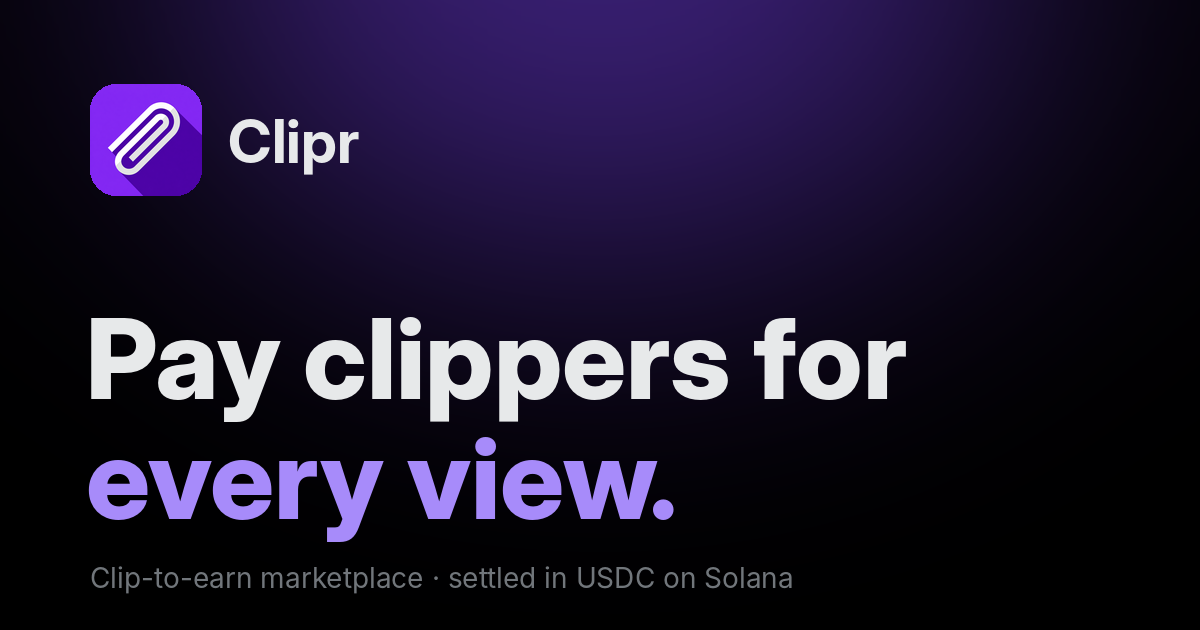
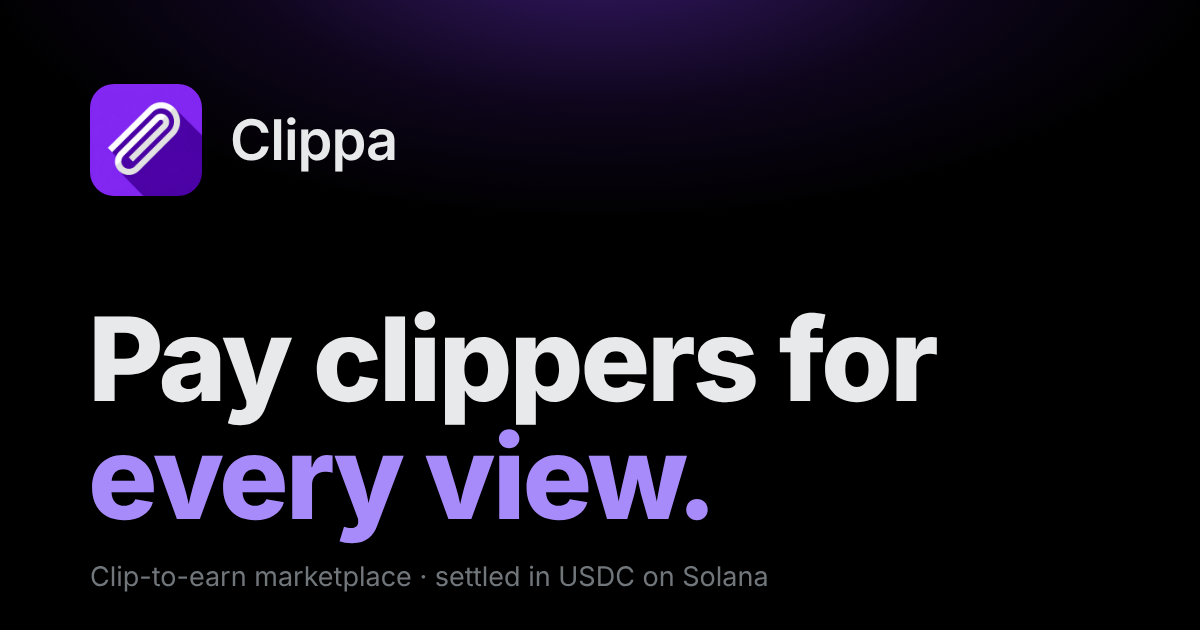
Rename to Clippa and link the @ClippaRun X account (#12)
* Embed a MrBeast TikTok in the scroll-story clip card

Uses TikTok's official embed player (muted, looping, chrome hidden) at
9:16, with the simulated views and earnings overlaid. The video id lives
in one constant so it is easy to swap.

Claude-Session: https://claude.ai/code/session_01Pjyex1ieHt6PobtfqqmfEH

* Add a Clipr campaign per platform and a $5,000 live budget

The landing ticker and seed script now feature four campaigns asking
clippers to post about Clipr (TikTok, YouTube, Instagram, X), $1,250
each. Live budgets falls back to their $5,000 total until real stats exist.

Claude-Session: https://claude.ai/code/session_01Pjyex1ieHt6PobtfqqmfEH

* Swap the MrBeast clip card into the hero and the simulated board into the scroll story

The clip card now loops through posted, growing, verified and paid on a
12s timer, since the hero has no scroll to drive it.

Claude-Session: https://claude.ai/code/session_01Pjyex1ieHt6PobtfqqmfEH

* Show each scroll-story step being done in a real app screen

Post the clip: TikTok's post composer, caption typed, posting progress.
Watch it grow: TikTok post analytics with views and the chart climbing.
Get verified: Clipr's submit screen ticking off each check, then approved.
Get paid: a wallet receiving the USDC payout from Clipr escrow.
The simulated board moves under the stats.

Claude-Session: https://claude.ai/code/session_01Pjyex1ieHt6PobtfqqmfEH

* Remove the progress ring behind the hero TikTok clip card
[…]

diff --git a/app/docs/page.tsx b/app/docs/page.tsx
@@ -82,7 +82,7 @@ export default function DocsPage() {
     <div className="mx-auto min-h-[80vh] max-w-7xl px-5 py-14 sm:px-8">
       <Reveal>
         <h1 className="font-display text-4xl font-bold tracking-tight text-ink-50 sm:text-5xl">
-          How Clipr works
+          How Clippa works
         </h1>
         <p className="mt-4 max-w-xl text-base leading-relaxed text-ink-300">
           Everything under the hood — the money flow, the payout gates, who can do what, where the
@@ -120,7 +120,7 @@ export default function DocsPage() {
               A settlement layer for clips
             </h2>
             <P>
-              Clipr is a marketplace where creators buy distribution and clippers get paid for it.
+              Clippa is a marketplace where creators buy distribution and clippers get paid for it.
               A creator posts a campaign with a rate per 1,000 views and funds its escrow wallet
               with USDC. Clippers cut the source content, post it to TikTok, YouTube, Instagram
               or X, and submit their links. Approved clips earn the posted rate on verified views,
@@ -144,7 +144,7 @@ export default function DocsPage() {
               posts and files the link, which sits pending with no money moving;{' '}
               <Mono>VIEWS_VERIFIED</Mono> — the submission is reviewed against the campaign and a
               view count is attached, automatically from the YouTube Data API for YouTube links
-              and at review time for other platforms; and <Mono>PAYOUT_CLEARED</Mono> — Clipr
+              and at review time for other platforms; and <Mono>PAYOUT_CLEARED</Mono> — Clippa
               sends USDC from the campaign wallet to the clipper&apos;s wallet, with the transaction
               signature as the receipt.
             </P>
@@ -156,7 +156,7 @@ export default function DocsPage() {
               One escrow wallet per campaign
             </h2>
             <P>
-              Every campaign gets its own wallet, held by Clipr. Money for one campaign never
+              Every campaign gets its own wallet, held by Clippa. Money for one campaign never
               mixes with another&apos;s: the creator funds that wallet, payouts and refunds leave
               from it, and its on-chain balance can be checked by anyone.
             </P>
@@ -238,8 +238,8 @@ export default function DocsPage() {
               Where the trust actually sits
             </h2>
             <P>
-              Clipr is custodial in this release, and the docs would be dishonest not to spell out
-              what that means. Each campaign&apos;s budget sits in its own wallet whose keys Clipr
+              Clippa is custodial in this release, and the docs would be dishonest not to spell out
+              what that means. Each campaign&apos;s budget sits in its own wallet whose keys Clippa
               holds. What it gives you: per-campaign wallets you can audit on chain, an
               append-only ledger, and a transaction signature for every settlement.
               What it does not give you: trustlessness.
@@ -262,7 +262,7 @@ export default function DocsPage() {
               10% in — 60% back into the chart
             </h2>
             <P>
-              Clipr charges exactly one fee: <span className="text-ink-50">10% of each
+              Clippa charges exactly one fee: <span className="text-ink-50">10% of each
               payout</span>, taken at the moment of settlement. Clippers keep 90% of everything
               they earn. There are no listing fees, no subscriptions, and no cut of creator
               deposits — an unspent budget withdraws in full.
@@ -277,7 +277,7 @@ export default function DocsPage() {
               <SplitBar
                 segments={[
                   { label: '$CLIPR buybacks · 60%', pct: 60, bar: 'bg-ink-50', text: 'text-ink-50' },
-                  { label: 'Clipr campaigns · 30%', pct: 30, bar: 'bg-ink-400', text: 'text-ink-300' },
+                  { label: 'Clippa campaigns · 30%', pct: 30, bar: 'bg-ink-400', text: 'text-ink-300' },
                   { label: 'Operations · 10%', pct: 10, bar: 'bg-ink-50', text: 'text-ink-200' },
                 ]}
               />
@@ -289,7 +289,7 @@ export default function DocsPage() {
               </span>{' '}
               — straight back into the chart.{' '}
               <span className="text-ink-50">
-                30% funds Clipr-run campaigns on this marketplace
+                30% funds Clippa-run campaigns on this marketplace
               </span>{' '}
               — protocol-funded campaigns that pay clippers directly, making the protocol
               its own biggest creator. The remaining 10% covers operations. Put together, for

diff --git a/app/page.tsx b/app/page.tsx
@@ -22,12 +22,12 @@ type Activity = { kind: 'payout' | 'deposit' | 'campaign' | 'clip'; amount: numb
 
 /* Shown in the ticker only until real campaigns exist. */
 const EXAMPLES: Pick<Campaign, 'id' | 'title' | 'platforms' | 'ratePerThousand' | 'budgetCents' | 'spentCents'>[] = [
-  { id: 'ex1', title: 'Clipr — TikTok launch clips', platforms: ['tiktok'], ratePerThousand: 100, budgetCents: 125000, spentCents: 0 },
-  { id: 'ex2', title: 'Clipr — YouTube Shorts explainers', platforms: ['youtube'], ratePerThousand: 150, budgetCents: 125000, spentCents: 0 },
-  { id: 'ex3', title: 'Clipr — Instagram Reels', platforms: ['instagram'], ratePerThousand: 80, budgetCents: 125000, spentCents: 0 },
-  { id: 'ex4', title: 'Clipr — Posts on X', platforms: ['x'], ratePerThousand: 120, budgetCents: 125000, spentCents: 0 },
+  { id: 'ex1', title: 'Clippa — TikTok launch clips', platforms: ['tiktok'], ratePerThousand: 100, budgetCents: 125000, spentCents: 0 },
+  { id: 'ex2', title: 'Clippa — YouTube Shorts explainers', platforms: ['youtube'], ratePerThousand: 150, budgetCents: 125000, spentCents: 0 },
+  { id: 'ex3', title: 'Clippa — Instagram Reels', platforms: ['instagram'], ratePerThousand: 80, budgetCents: 125000, spentCents: 0 },
+  { id: 'ex4', title: 'Clippa — Posts on X', platforms: ['x'], ratePerThousand: 120, budgetCents: 125000, spentCents: 0 },
 ];
-/* $5,000 across the four Clipr campaigns; shown as the live budget until real stats exist. */
+/* $5,000 across the four Clippa campaigns; shown as the live budget until real stats exist. */
 const EXAMPLE_BUDGET_CENTS = EXAMPLES.reduce((t, c) => t + c.budgetCents - c.spentCents, 0);
 
 /* Simulated clips for the hero board. Purely illustrative. */
@@ -53,7 +53,7 @@ const LEDGER = [
 ];
 
 const FAQ = [
-  { q: 'How does a campaign get funded?', a: "Creators send USDC to the campaign's own escrow wallet. Clipr holds it and pays clippers from it, and every movement is on the ledger." },
+  { q: 'How does a campaign get funded?', a: "Creators send USDC to the campaign's own escrow wallet. Clippa holds it and pays clippers from it, and every movement is on the ledger." },
   { q: 'How are clippers paid?', a: "Approved clips earn the posted rate per 1,000 verified views, sent as USDC from the campaign wallet straight to the clipper's own wallet." },
   { q: 'What if a clip keeps getting views?', a: 'Each settlement pays only the difference between what a clip has earned and what it has already been paid, up to the campaign cap.' },
   { q: 'Can creators get unspent budget back?', a: 'Yes. Remaining budget can be withdrawn from the campaign at any time.' },

diff --git a/components/nav.tsx b/components/nav.tsx
@@ -19,7 +19,10 @@ import {
 } from 'lucide-react';
 import { useAuth } from './providers';
 import { Button } from './ui';
+import { XIcon } from './icons';
 import { shortAddr } from '@/lib/format';
+
+export const X_URL = 'https://x.com/ClippaRun';
 
 type NavLink = { href: string; label: string; icon: LucideIcon; mobile?: boolean };
 
@@ -51,7 +54,7 @@ function Logo() {
   return (
     <Link
       href="/"
-      aria-label="Clipr home"
+      aria-label="Clippa home"
       className="flex h-[52px] w-[52px] items-center justify-center rounded-full transition hover:bg-ink-50/10"
     >
       <img src="/logo.png" alt="" className="h-8 w-8 rounded-lg" />
@@ -184,6 +187,12 @@ export function Nav() {
               </Link>
             );
           })}
+          <a href={X_URL} target="_blank" rel="noreferrer" className="group flex xl:block" title="@ClippaRun on X">
+            <span className="inline-flex items-center gap-5 rounded-full p-3 text-xl text-ink-50 transition group-hover:bg-ink-50/10 xl:pr-6">
+              <XIcon className="h-[24px] w-[26px]" />
+              <span className="hidden xl:inline">@ClippaRun</span>
+            </span>
+          </a>
         </nav>
 
         <Link href="/campaigns/new" className="mt-4 w-full" aria-label="Launch a campaign">
@@ -202,14 +211,23 @@ export function Nav() {
 
       {/* ---------- mobile: top bar ---------- */}
       <header className="fixed inset-x-0 top-0 z-50 flex h-14 items-center justify-between border-b border-ink-700 bg-ink-950/70 px-4 backdrop-blur-md lg:hidden">
-        <div className="w-20">
+        <div className="flex w-20 items-center gap-2">
           {address && (
             <Link href="/dashboard" aria-label="Dashboard">
               <Avatar name={user?.username || address} size="sm" />
             </Link>
           )}
+          <a
+            href={X_URL}
+            target="_blank"
+            rel="noreferrer"
+            aria-label="@ClippaRun on X"
+            className="flex h-8 w-8 items-center justify-center rounded-full text-ink-50 transition hover:bg-ink-50/10"
+          >
+            <XIcon className="h-4 w-4" />
+          </a>
         </div>
-        <Link href="/" aria-label="Clipr home">
+        <Link href="/" aria-label="Clippa home">
           <img src="/logo.png" alt="" className="h-7 w-7 rounded-lg" />
         </Link>
         <div className="flex w-20 justify-end">

diff --git a/components/step-screens.tsx b/components/step-screens.tsx
@@ -226,7 +226,7 @@ function GrowScreen({ t }: { t: number }) {
   );
 }
 
-/* ---------- 3. Clipr verifying the submission ---------- */
+/* ---------- 3. Clippa verifying the submission ---------- */
 const CHECKS = [
   { label: 'Account ownership verified', at: 0.3 },
   { label: `${VIEWS.toLocaleString('en-US')} views confirmed`, at: 0.45 },
@@ -302,9 +302,9 @@ function VerifyScreen({ t }: { t: number }) {
 /* ---------- 4. USDC landing in the wallet ---------- */
 const BALANCE = 1204.1;
 const HISTORY = [
-  { label: 'Received', sub: 'Clipr escrow', amt: '+96.40', ago: '3d' },
+  { label: 'Received', sub: 'Clippa escrow', amt: '+96.40', ago: '3d' },
   { label: 'Sent', sub: '7xKX…9fQa', amt: '−40.00', ago: '5d' },
-  { label: 'Received', sub: 'Clipr escrow', amt: '+152.10', ago: '1w' },
+  { label: 'Received', sub: 'Clippa escrow', amt: '+152.10', ago: '1w' },
 ];
 
 function PaidScreen({ t }: { t: number }) {
@@ -324,7 +324,7 @@ function PaidScreen({ t }: { t: number }) {
             <span className="flex h-7 w-7 shrink-0 items-center justify-center rounded-lg bg-[#2775CA] text-[10px] font-bold text-white">$</span>
             <div className="text-[11px] leading-tight text-ink-200">
               <div className="font-bold text-ink-50">Received {PAYOUT.toFixed(2)} USDC</div>
-              From Clipr escrow · Solana
+              From Clippa escrow · Solana
             </div>
           </motion.div>
         )}
@@ -362,7 +362,7 @@ function PaidScreen({ t }: { t: number }) {
                 </span>
                 <div className="flex-1 text-[11px]">
                   <div className="font-bold text-ink-50">Received</div>
-                  <div className="text-ink-400">{t > 0.6 ? 'Confirmed · 4mKp…Xq2Z' : 'Clipr escrow'}</div>
+                  <div className="text-ink-400">{t > 0.6 ? 'Confirmed · 4mKp…Xq2Z' : 'Clippa escrow'}</div>
                 </div>
                 <div className="text-right text-[11px]">
                   <div className="font-bold text-[#14F195] tabular">+{PAYOUT.toFixed(2)}</div>

diff --git a/components/footer.tsx b/components/footer.tsx
@@ -3,6 +3,7 @@
 import Link from 'next/link';
 import { Github } from 'lucide-react';
 import { XIcon } from './icons';
+import { X_URL } from './nav';
 
 const COLUMNS = [
   {
@@ -37,7 +38,7 @@ export function Footer() {
           <div className="max-w-xs">
             <div className="flex items-center gap-2.5">
               <img src="/logo.png" alt="" className="h-7 w-7 rounded-lg" />
-              <span className="font-display text-xl font-bold text-ink-50">Clipr</span>
+              <span className="font-display text-xl font-bold text-ink-50">Clippa</span>
             </div>
             <p className="mt-3 text-[15px] leading-relaxed text-ink-500">
               The settlement layer for short-form clips. Creators fund campaigns, clippers earn per 1,000 verified views.
@@ -53,10 +54,10 @@ export function Footer() {
                 <Github className="h-4 w-4" />
               </a>
               <a
-                href="https://x.com"
+                href={X_URL}
                 target="_blank"
                 rel="noreferrer"
-                aria-label="X"
+                aria-label="@ClippaRun on X"
                 className="flex h-9 w-9 items-center justify-center rounded-full border border-ink-700 text-ink-50 transition hover:bg-ink-50/10"
               >
                 <XIcon className="h-3.5 w-3.5" />
@@ -87,7 +88,7 @@ export function Footer() {
         </div>
 
         <div className="mt-14 flex flex-wrap items-center justify-between gap-4 border-t border-ink-800 pt-6 text-[13px] text-ink-600">
-          <span>© 2026 Clipr</span>
+          <span>© 2026 Clippa</span>
           <span>Settled in USDC on Solana · Not affiliated with X Corp.</span>
         </div>
       </div>

diff --git a/app/token/page.tsx b/app/token/page.tsx
@@ -262,7 +262,7 @@ export default function TokenPage() {
           </h1>
         </div>
         <p className="mt-4 max-w-xl text-base leading-relaxed text-ink-300">
-          The economic layer of Clipr. Every settlement that clears through a campaign budget
+          The economic layer of Clippa. Every settlement that clears through a campaign budget
           routes <span className="text-ink-50">10% to the protocol</span> — clippers keep the other
           90%, paid straight to their wallet.
         </p>
@@ -331,11 +331,11 @@ export default function TokenPage() {
             },
             {
               title: 'Revenue follows views',
-              body: 'The protocol earns only when clippers do. Fee volume scales with verified views settled, which keeps Clipr aligned with the editors doing the distribution.',
+              body: 'The protocol earns only when clippers do. Fee volume scales with verified views settled, which keeps Clippa aligned with the editors doing the distribution.',
             },
             {
               title: 'Profits split 60 / 30 / 10',
-              body: '60% of protocol profits buy $CLIPR back on the open market — straight into the chart. 30% funds Clipr-run campaigns on this very marketplace, paying clippers from protocol-owned budgets. 10% covers operations.',
+              body: '60% of protocol profits buy $CLIPR back on the open market — straight into the chart. 30% funds Clippa-run campaigns on this very marketplace, paying clippers from protocol-owned budgets. 10% covers operations.',
             },
           ].map((c) => (
             <StaggerItem key={c.title}>

diff --git a/app/campaigns/new/page.tsx b/app/campaigns/new/page.tsx
@@ -310,7 +310,7 @@ export default function NewCampaign() {
                 <div>
                   <EscrowPanel campaignId={campaign.id} owner onFunded={setFunded} />
                   <p className="mt-4 text-[13px] leading-relaxed text-ink-400">
-                    Send USDC to this campaign&apos;s escrow wallet. Clipr holds it and pays clippers
+                    Send USDC to this campaign&apos;s escrow wallet. Clippa holds it and pays clippers
                     from it; whatever is unspent you can withdraw.
                   </p>
                   <div className="mt-6 flex flex-wrap gap-3">

diff --git a/app/campaigns/[id]/page.tsx b/app/campaigns/[id]/page.tsx
@@ -328,7 +328,7 @@ export default function CampaignDetail() {
               <div className="mt-7 border-t border-ink-800 pt-5">
                 <EscrowPanel campaignId={c.id} />
                 <p className="mt-3 text-[11px] leading-relaxed text-ink-500">
-                  This campaign&apos;s budget sits in its own escrow wallet held by Clipr. Every
+                  This campaign&apos;s budget sits in its own escrow wallet held by Clippa. Every
                   deposit, payout and refund is on the ledger above.
                 </p>
               </div>

diff --git a/lib/wallet-auth.ts b/lib/wallet-auth.ts
@@ -7,7 +7,7 @@ import { isSolanaAddress } from './solana-address';
 
 export function signInMessage(opts: { domain: string; address: string; nonce: string; issuedAt: string }) {
   return [
-    `${opts.domain} wants you to sign in to Clipr with your Solana account:`,
+    `${opts.domain} wants you to sign in to Clippa with your Solana account:`,
     opts.address,
     '',
     'This only proves you own this wallet. It costs nothing and moves no funds.',

diff --git a/lib/escrow/manual.ts b/lib/escrow/manual.ts
@@ -9,7 +9,7 @@ export const manualRail: Rail = {
   currency: 'USD',
   configured: () => true,
   depositAddress: () => null,
-  depositDetails: () => ({ instructions: 'Contact the Clipr team to fund this campaign.' }),
+  depositDetails: () => ({ instructions: 'Contact the Clippa team to fund this campaign.' }),
   validDestination: (address) => isSolanaAddress(address),
   async send() {
     return { status: 'pending', ref: null };

diff --git a/app/layout.tsx b/app/layout.tsx
@@ -5,7 +5,7 @@ import { Nav } from '@/components/nav';
 import { Footer } from '@/components/footer';
 
 export const metadata: Metadata = {
-  title: 'Clipr',
+  title: 'Clippa',
   description:
     'The settlement layer for short-form clips. Creators fund a campaign escrow wallet, clippers post and earn per 1,000 verified views, payouts land in their wallet.',
 };

diff --git a/README.md b/README.md
@@ -1,10 +1,10 @@
-# Clipr
+# Clippa
 
 **Post a job. Make the clip. Get paid.** A clipping marketplace: creators post campaigns with a rate per 1,000 views and fund the campaign's own escrow wallet, clippers submit their posts, and approved clips are paid out per 1,000 verified views from that wallet straight to the clipper's wallet.
 
 Next.js 14 App Router + Tailwind + Framer Motion, Sign in with Solana (wallet-signed message), a platform-custodied escrow wallet per campaign (USDC on Solana, or a manual off-chain rail), an append-only escrow ledger, and Postgres (Neon serverless driver with a node-postgres fallback).
 
-> **Note:** this repository is a rebuild of the Clipr app that was deployed to Vercel (`clipr-vercel-drop-bl86.vercel.app`) without a linked Git repo. The UI, routes, file layout and data model follow the live deployment; the code is not byte-for-byte identical to the original. See *Before real money moves* below.
+> **Note:** this repository is a rebuild of the Clippa app that was deployed to Vercel (`clipr-vercel-drop-bl86.vercel.app`) without a linked Git repo. The UI, routes, file layout and data model follow the live deployment; the code is not byte-for-byte identical to the original. See *Before real money moves* below.
 
 Start with [`SECURITY.md`](./SECURITY.md) for the threat model and audit map, and `/docs` in the running app for the plain-English version.
 
@@ -15,7 +15,7 @@ Start with [`SECURITY.md`](./SECURITY.md) for the threat model and audit map, an
 ```bash
 cp .env.example .env    # fill DATABASE_URL, JWT_SECRET and the escrow settings
 psql "$DATABASE_URL" -f db/schema.sql
-node scripts/seed.mjs   # optional: one Clipr campaign per platform ($5,000 total)
+node scripts/seed.mjs   # optional: one Clippa campaign per platform ($5,000 total)
 npm install && npm run dev
 # → http://localhost:3000
 ```
